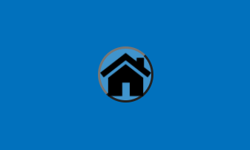
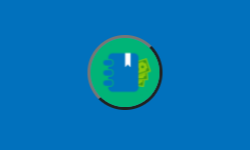
últimos cambios

Changed region(s): [[0.336, 0.2133, 0.672, 0.7467]]

diff --git a/index.html b/index.html
@@ -12,6 +12,19 @@
     <meta charset="UTF-8">
     <meta http-equiv="X-UA-Compatible" content="IE=edge">
     <meta name="viewport" content="width=device-width, initial-scale=1.0">
+    <meta name="keywords" content="admin,admin application,app management,application,application,business,business management,cash,cash app,cash app card
+    ,cash app control,cash app management,cash app money,cash application,cash coin,cash expenses,cash flow,cash management
+    ,cash money,cash web app,cashapp,check cash,control application  for money,control button,control for spend,control management
+    ,control of money for business,credit cards,debit cards,digital wallet,english,expenses,finance application,financial application
+    ,financial management,finantcial money management,finantial control,help,hibrid application,how to have a better administration
+    ,how to manage money,how to spend,how to spend money safely,i want to spend money,ingles,invest management,invest my time
+    ,invest time,ios support,manage my money,management,management app,management application,management help,management web app
+    ,money application,money management,money management app,money management skills,money management tools,movile web app
+    ,my apps,my note coin,net spend,net spend management,note coin app,note coin web app,online money management apps
+    ,payment day,personal money app,personal money management,production,productivity,progresive web app,project management tools
+    ,revenue management,safe spend money,service worker,spend control,spend days,spend down,spend management,wallet management
+    ,wallet money,waste management,web application,welcome,what is money management,money">
+    <meta name="description" content="This web app is made to help you to have an advanced control for your money. Insert amounts to make instant calculus to help you to manage your cash.">
     <title>MyNoteCoint</title>
     <link rel="shortcut icon" href="./Imagenes/Iconos/maskable_icon_x128.ico">
     <!-- Estilos -->
@@ -578,20 +591,6 @@
                 <button onclick="editaElementoEnLista('EditaUnPendiente'); reproducirClick();">Edit Pending</button>
             </div>
         </article>
-        <article class="Formulario1" id="EditaDiasDePago">
-            <div class="Boton1">
-                <button onclick="_MyPaymentDay(); reproducirClick();">Return</button>
-            </div>
-            <h3>Edit Payment Days</h3>
-            <form>
-                <input id="FirstPaymentDay" type="number" placeholder="First Payment Day" onkeypress="return longitudDiasDePago(event, 'FirstPaymentDay');">
-                <input id="SecondPaymentDay" type="number" placeholder="Second Payment Day" onkeypress="return longitudDiasDePago(event, 'SecondPaymentDay');">
-            </form>
-            <span class="DescripcionTotal">Note: Write 31 On Second Payment Day To Indicate The Last Day Of The Month</span>
-            <div class="Boton2">
-                <button onclick="editaElementoEnLista('EditaDiasDePago'); reproducirClick();">Edit Payment Days</button>
-            </div>
-        </article>
     </section>
     <!-- About (Welcome) -->
     <section id="About">
@@ -603,55 +602,61 @@
         <article id="Guide">
             <h2>Guide</h2>
             <h3>Cash</h3>
-            <div class="ContenedorImagenAbout"><img src="./Imagenes/Guia/guia1.png" alt="Guide 1"></div>
+            <div class="ContenedorImagenAbout"><img src="./Imagenes/Guia/guia1.png" alt="Cash"></div>
             <p>Input your actually cash to manage the amount of money that you will control in the app.</p>
             <h3>Total</h3>
-            <div class="ContenedorImagenAbout"><img src="./Imagenes/Guia/guia14.png" alt="Guide 1"></div>
+            <div class="ContenedorImagenAbout"><img src="./Imagenes/Guia/guia14.png" alt="Total"></div>
             <p>Check out how much cash you have for the total. The total of cash is calculated with the cash plus the amount of money in credit cards.</p>
             <h3>Remaining</h3>
-            <div class="ContenedorImagenAbout"><img src="./Imagenes/Guia/guia15.png" alt="Guide 1"></div>
+            <div class="ContenedorImagenAbout"><img src="./Imagenes/Guia/guia15.png" alt="Remaining cash"></div>
             <p>The remaining is how much money you actually have to spend for free. The remaining is calculated with the total of cash minus the total of the expenses that you write in expenses and spend on week.</p>
             <h3>Safe spend for today</h3>
-            <div class="ContenedorImagenAbout"><img src="./Imagenes/Guia/guia16.png" alt="Guide 1"></div>
+            <div class="ContenedorImagenAbout"><img src="./Imagenes/Guia/guia16.png" alt="Safe Spend for today"></div>
             <p>This section is very important, because you can see how much cash you can spend for free today without guilty. It is calculated with the remaining and the amount of days that will pass until your next payment.</p>
             <h3>Sections</h3>
-            <div class="ContenedorImagenAbout"><img src="./Imagenes/Guia/guia2.png" alt="Guide 1"></div>
+            <div class="ContenedorImagenAbout"><img src="./Imagenes/Guia/guia2.png" alt="Some sections on the app"></div>
             <p>You can open each section to edit your list.</p>
             <h3>Total of each section</h3>
-            <div class="ContenedorImagenAbout"><img src="./Imagenes/Guia/guia3.png" alt="Guide 1"></div>
+            <div class="ContenedorImagenAbout"><img src="./Imagenes/Guia/guia3.png" alt="Total for each section"></div>
             <p>In each section you can see how much cash is moving there, so you can have a great control of your money.</p>
             <h3>Element in list</h3>
-            <div class="ContenedorImagenAbout"><img src="./Imagenes/Guia/guia4.png" alt="Guide 1"></div>
+            <div class="ContenedorImagenAbout"><img src="./Imagenes/Guia/guia4.png" alt="An element on list"></div>
             <p>Each section has his own elements. You can Add, Edit and Delete each element.</p>
             <h3>Spend on week</h3>
-            <div class="ContenedorImagenAbout"><img src="./Imagenes/Guia/guia5.png" alt="Guide 1"></div>
+            <div class="ContenedorImagenAbout"><img src="./Imagenes/Guia/guia5.png" alt="Spend on week section"></div>
             <p>In this section you can write how much money you will spend in each day, so you can have a great control for your money.</p>
             <h3>Expenses</h3>
-            <div class="ContenedorImagenAbout"><img src="./Imagenes/Guia/guia6.png" alt="Guide 1"></div>            <h3></h3>
+            <div class="ContenedorImagenAbout"><img src="./Imagenes/Guia/guia6.png" alt="Expenses section"></div>            <h3></h3>
             <p>In this section you can create a list of expenses, so you will remind what for and how much you have to apart for these expenses.</p>
             <h3>Debit cards</h3>
-            <div class="ContenedorImagenAbout"><img src="./Imagenes/Guia/guia7.png" alt="Guide 1"></div>            <h3></h3>
+            <div class="ContenedorImagenAbout"><img src="./Imagenes/Guia/guia7.png" alt="Debit cards section"></div>            <h3></h3>
             <p>In this section you can create a list for your credit cards. So you will see and remind how much cash you have.</p>
             <h3>Debts</h3>
-            <div class="ContenedorImagenAbout"><img src="./Imagenes/Guia/guia8.png" alt="Guide 1"></div>            <h3></h3>
+            <div class="ContenedorImagenAbout"><img src="./Imagenes/Guia/guia8.png" alt="Debts section"></div>            <h3></h3>
             <p>In this section you can create a list for your debts. These debts will not affect the cash.</p>
             <h3>Debtors</h3>
-            <div class="ContenedorImagenAbout"><img src="./Imagenes/Guia/guia9.png" alt="Guide 1"></div>            <h3></h3>
+            <div class="ContenedorImagenAbout"><img src="./Imagenes/Guia/guia9.png" alt="Debtors section"></div>            <h3></h3>
             <p>In this section you can create a list for debtors. That means that you will remind people who debt you money. These debts will not affect the cash.</p>
             <h3>Pendings</h3>
-            <div class="ContenedorImagenAbout"><img src="./Imagenes/Guia/guia10.png" alt="Guide 1"></div>
+            <div class="ContenedorImagenAbout"><img src="./Imagenes/Guia/guia10.png" alt="Pendings section"></div>
             <p>This section is for expenses that you will make in future. It works like a to do list or an expenses list, and will not affect your cash.</p>
             <h3>Payment day</h3>
-            <div class="ContenedorImagenAbout"><img src="./Imagenes/Guia/guia11.png" alt="Guide 1"></div>
+            <div class="ContenedorImagenAbout"><img src="./Imagenes/Guia/guia11.png" alt="Payment day section"></div>
             <p>In this section you can see how many days will take until your next payment day. The days remaining are used to calculate how much money you can use for free each day until you get pay, so you will never run out of money.</p>
             <p>Is build thinking on payment day as each fortnight.</p>
             <h3>Information section</h3>
-            <div class="ContenedorImagenAbout"><img src="./Imagenes/Guia/guia12.png" alt="Guide 1"></div>
+            <div class="ContenedorImagenAbout"><img src="./Imagenes/Guia/guia12.png" alt="Information button"></div>
             <p>You can go to information section just clicking on this button.</p>
             <h3>Home section</h3>
-            <div class="ContenedorImagenAbout"><img src="./Imagenes/Guia/guia13.png" alt="Guide 1"></div>
+            <div class="ContenedorImagenAbout"><img src="./Imagenes/Guia/guia13.png" alt="Home button"></div>
             <p>You can go to the principal page of the app just clicking on this button.</p>
-
+            <h3>Errors</h3>
+            <p>An error for updates may be appear, to solve it just clear cache on browser and reload.</p>
+            <p>To clear cache just for this page, follow the next instructions</p>
+            <p>1._ Press f12, or right click and click on "inspect" to open the inspect window.</p>
+            <div class="ContenedorImagenAbout"><img src="./Imagenes/Guia/guia17.png" alt="Instructions to open the inspect window"></div>
+            <p>2._ Then right click on the reload button, left to the search, and click on <b>empty cache and hard reload </b></p>
+            <div class="ContenedorImagenAbout"><img src="./Imagenes/Guia/guia18.png" alt="Instructions to empty cache and reload"></div>
         </article>
         <article id="AboutUs">
             <h2>About Us</h2>
@@ -673,7 +678,7 @@
             <button id="BotonAbout" onclick="_aboutApp(); reproducirClick();"><img src="./Imagenes/about.png" alt="About"></button>
         </article>
         <article title="Go to the App">
-            <button id="BotonHome" onclick="_homeApp(); reproducirClick();"><img src="./Imagenes/Home.png" alt="About"></button>
+            <button id="BotonHome" onclick="_homeApp(); reproducirClick();"><img src="./Imagenes/Iconos/maskable_icon.png" alt="About"></button>
         </article>
     </section>
     <footer></footer>

diff --git a/JavaScript/ManejoDePantallas/ManejoDePantallas.js b/JavaScript/ManejoDePantallas/ManejoDePantallas.js
@@ -30,7 +30,6 @@ let AniadeUnDeudor = document.getElementById("AniadeUnDeudor");
 let EditaUnDeudor = document.getElementById("EditaUnDeudor");
 let AniadeUnPendiente = document.getElementById("AniadeUnPendiente");
 let EditaUnPendiente = document.getElementById("EditaUnPendiente");
-let EditaDiasDePago = document.getElementById("EditaDiasDePago");
 
 // Inicio de la Aplicación
 _startApp();
@@ -172,8 +171,6 @@ function _EditaUnDiaDeLaSemana(){
     _desaparecer(EditaUnDeudor);
     _desaparecer(AniadeUnPendiente);
     _desaparecer(EditaUnPendiente);
-    _desaparecer(EditaDiasDePago);
-
     _aparecer(EditaUnDiaDeLaSemana);
 }
 function _AniadeUnGasto(){
@@ -190,8 +187,6 @@ function _AniadeUnGasto(){
     _desaparecer(EditaUnDeudor);
     _desaparecer(AniadeUnPendiente);
     _desaparecer(EditaUnPendiente);
-    _desaparecer(EditaDiasDePago);
-
     _aparecer(AniadeUnGasto);
 }
 function _EditaUnGasto(){
@@ -208,8 +203,6 @@ function _EditaUnGasto(){
     _desaparecer(EditaUnDeudor);
     _desaparecer(AniadeUnPendiente);
     _desaparecer(EditaUnPendiente);
-    _desaparecer(EditaDiasDePago);
-
     _aparecer(EditaUnGasto);
 }
 function _AniadeUnaTarjeta(){
@@ -226,8 +219,6 @@ function _AniadeUnaTarjeta(){
     _desaparecer(EditaUnDeudor);
     _desaparecer(AniadeUnPendiente);
     _desaparecer(EditaUnPendiente);
-    _desaparecer(EditaDiasDePago);
-
     _aparecer(AniadeUnaTarjeta);
 }
 function _EditaUnaTarjeta(){
@@ -244,8 +235,6 @@ function _EditaUnaTarjeta(){
     _desaparecer(EditaUnDeudor);
     _desaparecer(AniadeUnPendiente);
     _desaparecer(EditaUnPendiente);
-    _desaparecer(EditaDiasDePago);
-
     _aparecer(EditaUnaTarjeta);
 }
 function _AniadeUnaDeuda(){
@@ -262,8 +251,6 @@ function _AniadeUnaDeuda(){
     _desaparecer(EditaUnDeudor);
     _desaparecer(AniadeUnPendiente);
     _desaparecer(EditaUnPendiente);
-    _desaparecer(EditaDiasDePago);
-
     _aparecer(AniadeUnaDeuda);
 }
 function _EditaUnaDeuda(){
@@ -280,8 +267,6 @@ function _EditaUnaDeuda(){
     _desaparecer(EditaUnaTarjeta);
     _desaparecer(AniadeUnPendiente);
     _desaparecer(EditaUnPendiente);
-    _desaparecer(EditaDiasDePago);
-
     _aparecer(EditaUnaDeuda);
 }
 function _AniadeUnDeudor(){
@@ -298,8 +283,6 @@ function _AniadeUnDeudor(){
     _desaparecer(EditaUnDeudor);
     _desaparecer(AniadeUnPendiente);
     _desaparecer(EditaUnPendiente);
-    _desaparecer(EditaDiasDePago);
-
     _aparecer(AniadeUnDeudor);
 }
 function _EditaUnDeudor(){
@@ -316,8 +299,6 @@ function _EditaUnDeudor(){
     _desaparecer(EditaUnaTarjeta);
     _desaparecer(AniadeUnPendiente);
     _desaparecer(EditaUnPendiente);
-    _desaparecer(EditaDiasDePago);
-
     _aparecer(EditaUnDeudor);
 }
 function _AniadeUnPendiente(){
@@ -334,8 +315,6 @@ function _AniadeUnPendiente(){
     _desaparecer(EditaUnDeudor);
     _desaparecer(AniadeUnDeudor);
     _desaparecer(EditaUnPendiente);
-    _desaparecer(EditaDiasDePago);
-
     _aparecer(AniadeUnPendiente);
 }
 function _EditaUnPendiente(){
@@ -352,8 +331,6 @@ function _EditaUnPendiente(){
     _desaparecer(EditaUnaTarjeta);
     _desaparecer(AniadeUnPendiente);
     _desaparecer(EditaUnDeudor);
-    _desaparecer(EditaDiasDePago);
-
     _aparecer(EditaUnPendiente);
 }
 function _EditaDiasDePago(){

diff --git a/Css/Botones/BotonesFijos.css b/Css/Botones/BotonesFijos.css
@@ -5,10 +5,13 @@
     border-radius: 50%;
     position: fixed;
     cursor: pointer;
+    right: 10px;
+    bottom: 10px;
 }
 #BotonAbout img, #BotonHome img{
     width: 100%;
     height: 100%;
+    border-radius: 50%;
 }
 #BotonAbout:hover,#BotonAbout:active, #BotonHome:hover, #BotonHome:active{
     -webkit-box-shadow: 3px 3px 5px 0px rgb(0 0 0 / 75%);
@@ -17,14 +20,14 @@
     transition: 0.1s;
 }
 /* Posición */
-#BotonAbout{
+/* #BotonAbout{
     right: 10px;
     bottom: 10px;
 }
 #BotonHome{
     left: 10px;
     bottom: 10px;
-}
+} */
 @media screen and (min-width: 768px){
     #BotonAbout, #BotonHome{
         width: 60px;

diff --git a/JavaScript/Listas/MovimientosListas.js b/JavaScript/Listas/MovimientosListas.js
@@ -188,11 +188,11 @@ function aniadirElementoALista(formularioUsado){
     let inputElement = formElement.querySelectorAll('input');
 
     if ( inputElement[0].value.length == 0 ) {
-        alert("You must introduce a Title");
+        alert("Debe introducir un Titulo");
         console.log('Debe introducir un Titulo');
         return false;
     } else if (inputElement[1].value.length == 0) {
-        alert("You must introduce an Amount");
+        alert("Debe introducir una Cantidad");
         console.log('Debe introducir una Cantidad');
         return false;
     }

diff --git a/JavaScript/RedirectHTTPS.js b/JavaScript/RedirectHTTPS.js
@@ -14,6 +14,6 @@ function copyToClipBoard(enlace) {
       .catch(err => {
       console.log('Something went wrong', err);
   })
-  alert("Thank You..!")
+  alert("MyNoteCoin!");
 }
 registroServiceWorker();

diff --git a/Css/global.css b/Css/global.css
@@ -13,6 +13,9 @@ header{
     font-size: 15px;
     cursor: pointer;
 }
+a{
+    color: rgb(255, 176, 6);
+}
 footer{
     min-height: 100px;
 }
